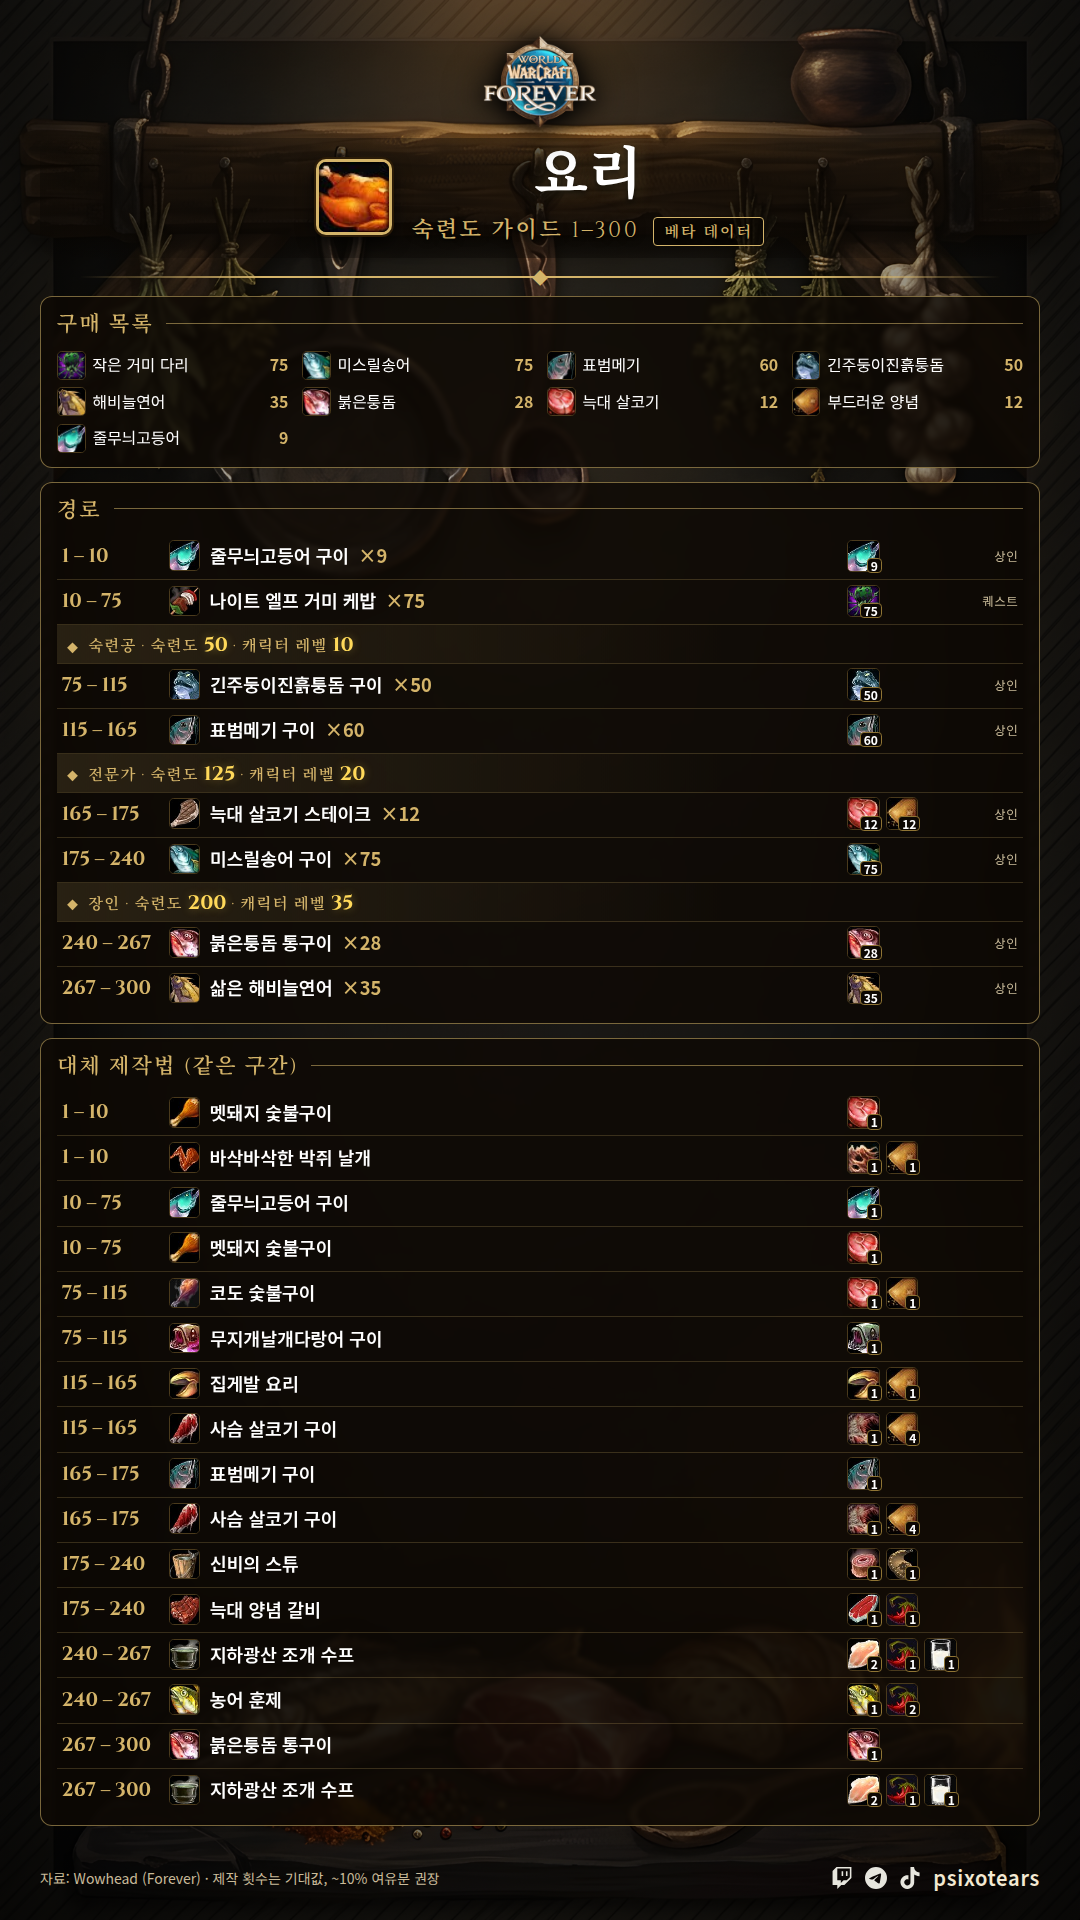
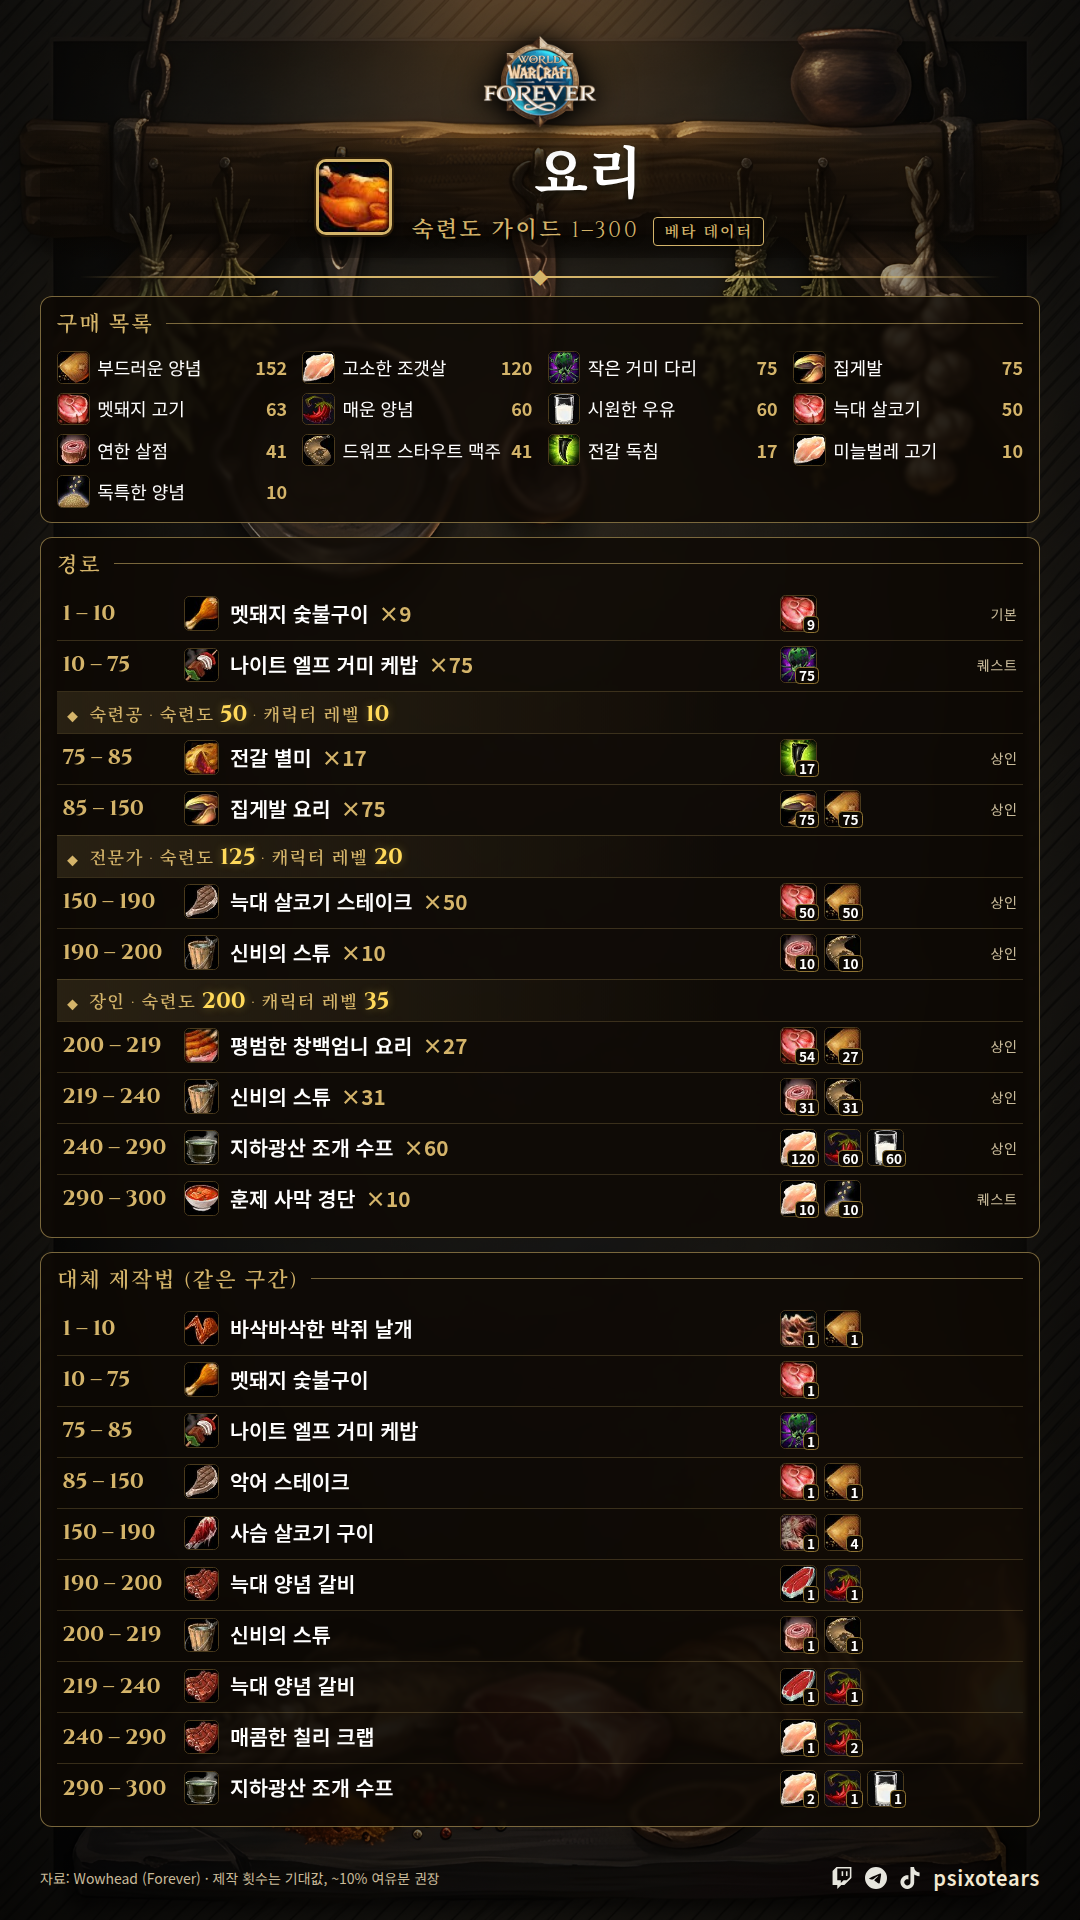
Cooking: meat-only route (no fish/holiday reagents); Fishing: Brilliant Smallfish zones for the Fish Bowl
Claude-Session: https://claude.ai/code/session_012e8LnHD2AptEEnhumMxWH2

diff --git a/wow-cards/pipeline/render.py b/wow-cards/pipeline/render.py
@@ -9,7 +9,7 @@ UI = {
            'ranknames': ['Journeyman', 'Expert', 'Artisan'], 'charlvl': 'character level', 'skilllbl': 'skill',
            'alts': 'Alternatives (same skill range)', 'nodes': 'Nodes by skill', 'skill': 'Skill', 'where': 'Where to find', 'moblvl': 'Mob level', 'zones': 'Zones',
            'ooze': 'also ooze-covered', 'skinnote': 'Required skill: (mob level − 10) × 10 up to level 20, then mob level × 5', 'gguide': 'Gathering Guide 1–300',
-           'nogetaway': 'No get-aways from', 'fishnote': 'Zone thresholds from WoW Classic — to be verified in the Forever beta', 'fguide': 'Fishing Guide 1–300',
+           'smallfish': 'For the Fish Bowl camp object — best catch rates', 'nogetaway': 'No get-aways from', 'fishnote': 'Zone thresholds from WoW Classic — to be verified in the Forever beta', 'fguide': 'Fishing Guide 1–300',
            'beta': 'BETA DATA', 'src': 'Data: Wowhead (Forever) · Craft counts are expected values, buy ~10% extra',
            'ranks': 'Journeyman 50 · Expert 125 · Artisan 200', 'title': 'World of Warcraft: Forever'},
     'ru': {'guide': 'Гайд по прокачке 1–300', 'shopping': 'Список покупок', 'steps': 'Маршрут', 'trainer': 'Учитель', 'vendor': 'Торговец',
@@ -17,7 +17,7 @@ UI = {
            'ranknames': ['Подмастерье', 'Умелец', 'Искусник'], 'charlvl': 'уровень персонажа', 'skilllbl': 'навык',
            'alts': 'Альтернативы (тот же диапазон)', 'nodes': 'Узлы по навыку', 'skill': 'Навык', 'where': 'Где искать', 'moblvl': 'Уровень мобов', 'zones': 'Зоны',
            'ooze': 'есть и покрытые слизью', 'skinnote': 'Нужный навык: (уровень моба − 10) × 10 до 20 ур., дальше уровень моба × 5', 'gguide': 'Гайд по добыче 1–300',
-           'nogetaway': 'Без срывов от', 'fishnote': 'Пороги зон взяты из WoW Classic — требуют проверки в бете Forever', 'fguide': 'Гайд по рыбалке 1–300',
+           'smallfish': 'Для Аквариума (объект лагеря) — где ловится чаще всего', 'nogetaway': 'Без срывов от', 'fishnote': 'Пороги зон взяты из WoW Classic — требуют проверки в бете Forever', 'fguide': 'Гайд по рыбалке 1–300',
            'beta': 'ДАННЫЕ БЕТЫ', 'src': 'Данные: Wowhead (Forever) · Кол-во крафтов ожидаемое, берите ~10% запас',
            'ranks': 'Подмастерье 50 · Умелец 125 · Искусник 200', 'title': 'World of Warcraft: Forever'},
     'cn': {'guide': '专业升级指南 1–300', 'shopping': '材料清单', 'steps': '路线', 'trainer': '训练师', 'vendor': '商人',
@@ -25,7 +25,7 @@ UI = {
            'ranknames': ['中级', '高级', '专家'], 'charlvl': '角色等级', 'skilllbl': '技能',
            'alts': '替代配方（同一区间）', 'nodes': '按技能等级的采集点', 'skill': '技能', 'where': '采集地点', 'moblvl': '怪物等级', 'zones': '区域',
            'ooze': '含软泥覆盖变体', 'skinnote': '所需技能：20级前为(怪物等级−10)×10，之后为怪物等级×5', 'gguide': '采集指南 1–300',
-           'nogetaway': '不脱钩起始', 'fishnote': '区域门槛取自 WoW Classic，待 Forever 测试服验证', 'fguide': '钓鱼指南 1–300',
+           'smallfish': '用于营地物品“鱼缸”——最佳钓取地点', 'nogetaway': '不脱钩起始', 'fishnote': '区域门槛取自 WoW Classic，待 Forever 测试服验证', 'fguide': '钓鱼指南 1–300',
            'beta': '测试服数据', 'src': '数据：Wowhead (Forever) · 制作次数为期望值，建议多备约10%',
            'ranks': '中级 50 · 高级 125 · 专家 200', 'title': '魔兽世界：无限'},
     'de': {'guide': 'Skillguide 1–300', 'shopping': 'Einkaufsliste', 'steps': 'Route', 'trainer': 'Lehrer', 'vendor': 'Händler',
@@ -33,7 +33,7 @@ UI = {
            'ranknames': ['Geselle', 'Experte', 'Fachmann'], 'charlvl': 'Charakterstufe', 'skilllbl': 'Fertigkeit',
            'alts': 'Alternativen (gleicher Bereich)', 'nodes': 'Vorkommen nach Fertigkeit', 'skill': 'Fertigkeit', 'where': 'Fundorte', 'moblvl': 'Mobstufe', 'zones': 'Zonen',
            'ooze': 'auch schleimbedeckt', 'skinnote': 'Benötigte Fertigkeit: (Mobstufe − 10) × 10 bis Stufe 20, danach Mobstufe × 5', 'gguide': 'Sammelguide 1–300',
-           'nogetaway': 'Kein Entkommen ab', 'fishnote': 'Zonenwerte aus WoW Classic – in der Forever-Beta zu prüfen', 'fguide': 'Angelguide 1–300',
+           'smallfish': 'Für das Lagerobjekt Aquarium – beste Fangorte', 'nogetaway': 'Kein Entkommen ab', 'fishnote': 'Zonenwerte aus WoW Classic – in der Forever-Beta zu prüfen', 'fguide': 'Angelguide 1–300',
            'beta': 'BETA-DATEN', 'src': 'Daten: Wowhead (Forever) · Anzahl = Erwartungswert, ~10 % Reserve einplanen',
            'ranks': 'Geselle 50 · Experte 125 · Fachmann 200', 'title': 'World of Warcraft: Forever'},
     'fr': {'guide': 'Guide de montée 1–300', 'shopping': "Liste d'achats", 'steps': 'Itinéraire', 'trainer': 'Maître', 'vendor': 'Vendeur',
@@ -41,7 +41,7 @@ UI = {
            'ranknames': ['Compagnon', 'Expert', 'Artisan'], 'charlvl': 'niveau du personnage', 'skilllbl': 'compétence',
            'alts': 'Alternatives (même plage)', 'nodes': 'Gisements par compétence', 'skill': 'Compétence', 'where': 'Où trouver', 'moblvl': 'Niveau des monstres', 'zones': 'Zones',
            'ooze': 'aussi couverts de vase', 'skinnote': 'Compétence requise : (niveau du monstre − 10) × 10 jusqu\'au niveau 20, puis niveau × 5', 'gguide': 'Guide de récolte 1–300',
-           'nogetaway': 'Sans fuite dès', 'fishnote': 'Seuils de zones issus de WoW Classic – à vérifier sur la bêta Forever', 'fguide': 'Guide de pêche 1–300',
+           'smallfish': "Pour l'objet de camp Aquarium – meilleurs taux de pêche", 'nogetaway': 'Sans fuite dès', 'fishnote': 'Seuils de zones issus de WoW Classic – à vérifier sur la bêta Forever', 'fguide': 'Guide de pêche 1–300',
            'beta': 'DONNÉES BÊTA', 'src': 'Données : Wowhead (Forever) · Nombres = valeurs attendues, prévoyez ~10 % de marge',
            'ranks': 'Compagnon 50 · Expert 125 · Artisan 200', 'title': 'World of Warcraft: Forever'},
     'es': {'guide': 'Guía de subida 1–300', 'shopping': 'Lista de compra', 'steps': 'Ruta', 'trainer': 'Instructor', 'vendor': 'Vendedor',
@@ -49,7 +49,7 @@ UI = {
            'ranknames': ['Oficial', 'Experto', 'Artesano'], 'charlvl': 'nivel del personaje', 'skilllbl': 'habilidad',
            'alts': 'Alternativas (mismo rango)', 'nodes': 'Vetas por habilidad', 'skill': 'Habilidad', 'where': 'Dónde encontrar', 'moblvl': 'Nivel de monstruos', 'zones': 'Zonas',
            'ooze': 'también cubiertas de moco', 'skinnote': 'Habilidad necesaria: (nivel del monstruo − 10) × 10 hasta nivel 20, luego nivel × 5', 'gguide': 'Guía de recolección 1–300',
-           'nogetaway': 'Sin escapes desde', 'fishnote': 'Umbrales de zona de WoW Classic; pendientes de verificar en la beta de Forever', 'fguide': 'Guía de pesca 1–300',
+           'smallfish': 'Para el objeto de campamento Pecera: mejores lugares de pesca', 'nogetaway': 'Sin escapes desde', 'fishnote': 'Umbrales de zona de WoW Classic; pendientes de verificar en la beta de Forever', 'fguide': 'Guía de pesca 1–300',
            'beta': 'DATOS DE BETA', 'src': 'Datos: Wowhead (Forever) · Cantidades esperadas, compra ~10 % extra',
            'ranks': 'Oficial 50 · Experto 125 · Artesano 200', 'title': 'World of Warcraft: Forever'},
     'ko': {'guide': '숙련도 가이드 1–300', 'shopping': '구매 목록', 'steps': '경로', 'trainer': '훈련사', 'vendor': '상인',
@@ -57,7 +57,7 @@ UI = {
            'ranknames': ['숙련공', '전문가', '장인'], 'charlvl': '캐릭터 레벨', 'skilllbl': '숙련도',
            'alts': '대체 제작법 (같은 구간)', 'nodes': '숙련도별 채집물', 'skill': '숙련도', 'where': '위치', 'moblvl': '몬스터 레벨', 'zones': '지역',
            'ooze': '진흙 덮인 변형 포함', 'skinnote': '필요 숙련도: 20레벨까지 (몬스터 레벨 − 10) × 10, 이후 몬스터 레벨 × 5', 'gguide': '채집 가이드 1–300',
-           'nogetaway': '놓침 없음', 'fishnote': '지역 기준은 WoW 클래식 자료 – Forever 베타에서 확인 필요', 'fguide': '낚시 가이드 1–300',
+           'smallfish': '야영지 물건 어항 제작용 – 가장 잘 잡히는 지역', 'nogetaway': '놓침 없음', 'fishnote': '지역 기준은 WoW 클래식 자료 – Forever 베타에서 확인 필요', 'fguide': '낚시 가이드 1–300',
            'beta': '베타 데이터', 'src': '자료: Wowhead (Forever) · 제작 횟수는 기대값, ~10% 여유분 권장',
            'ranks': '숙련공 50 · 전문가 125 · 장인 200', 'title': 'World of Warcraft: Forever'},
 }
@@ -202,12 +202,17 @@ td.gn{width:calc(300px * var(--s))}
 .gn .chips{display:flex;flex-direction:column;gap:calc(3px * var(--s))}
 .gn img{width:calc(34px * var(--s));height:calc(34px * var(--s));border-radius:5px;border:1.5px solid #4a3a1c;flex:none}
 .gn .nm{font-size:calc(19px * var(--s));font-weight:600;line-height:1.05}
+.gn .sk{display:inline-block;margin-left:6px;padding:0 6px;border:1px solid var(--gold2);border-radius:4px;font-family:HEADFONT;font-size:calc(14px * var(--s));color:#ffd95a;vertical-align:middle;line-height:1.3}
 .gn .oz{font-size:calc(12px * var(--s));color:var(--dim);display:block;margin-top:2px}
 td.gz{font-size:calc(16px * var(--s));line-height:1.25;color:var(--ink)}
 .gz span{white-space:normal}
 .gz small{color:var(--dim);font-size:calc(12.5px * var(--s))}
 td.gm{font-size:calc(17px * var(--s));color:var(--ink);width:calc(120px * var(--s));white-space:nowrap}
 .note{font-size:calc(14px * var(--s));color:var(--dim);margin-top:8px}
+.sfish{display:flex;gap:calc(12px * var(--s));align-items:flex-start;margin-top:calc(14px * var(--s));padding-top:calc(12px * var(--s));border-top:1px solid rgba(212,180,106,.22);font-size:calc(16px * var(--s));color:var(--ink)}
+.sfish img{width:calc(44px * var(--s));height:calc(44px * var(--s));border-radius:6px;border:1.5px solid #4a3a1c;flex:none}
+.sfish b{color:#fff}
+.sfish .gz{font-size:calc(15px * var(--s))}
 """
 
 
@@ -228,7 +233,7 @@ def build_gather(prof, lang, bg='../../bg/placeholder.png', logo=None, s=1.0):
     if d['kind'] == 'bands':
         for r in d['rows']:
             sk = str(r['skill']) if r['skill'] == r['skill_hi'] else f'{r["skill"]}–{r["skill_hi"]}'
-            chips = ''.join(f'<div class="w"><img src="../../icons/{n["icon"]}.jpg"><div><span class="nm">{esc(n["name"].get(lang) or n["name"]["en"])}</span>{("<span class=oz>" + esc(ui["ooze"]) + "</span>") if n.get("ooze") else ""}</div></div>' for n in r['nodes'])
+            chips = ''.join(f'<div class="w"><img src="../../icons/{n["icon"]}.jpg"><div><span class="nm">{esc(n["name"].get(lang) or n["name"]["en"])} <span class="sk">{n["skill"]}</span></span>{("<span class=oz>" + esc(ui["ooze"]) + "</span>") if n.get("ooze") else ""}</div></div>' for n in r['nodes'])
             rows.append(f'<tr><td class="gs">{sk}</td><td class="gn"><div class="chips">{chips}</div></td><td class="gz">{zones_html(r["zones"])}</td></tr>')
         head = f'<tr><td class="src" style="text-align:left">{esc(ui["skill"])}</td><td class="src" style="text-align:left"></td><td class="src" style="text-align:left">{esc(ui["where"])}</td></tr>'
         note = ''
@@ -238,6 +243,10 @@ def build_gather(prof, lang, bg='../../bg/placeholder.png', logo=None, s=1.0):
             rows.append(f'<tr><td class="gs">{r["skill"]}+</td><td class="gm">{r["nogetaway"]}+</td><td class="gz">{zones_html(r["zones"])}</td></tr>')
         head = f'<tr><td class="src" style="text-align:left">{esc(ui["skill"])}</td><td class="src" style="text-align:left">{esc(ui["nogetaway"])}</td><td class="src" style="text-align:left">{esc(ui["zones"])}</td></tr>'
         note = f'<div class="note">{esc(ui["fishnote"])}</div>'
+        sf = d.get('smallfish')
+        if sf:
+            zs = ' · '.join(f'<span>{esc(z["name"].get(lang) or z["name"]["en"])} <small>{z["pct"]}%</small></span>' for z in sf['zones'])
+            note += f'<div class="sfish"><img src="../../icons/{sf["icon"]}.jpg"><div><b>{esc(sf["name"].get(lang) or sf["name"]["en"])}</b> — {esc(ui["smallfish"])}<div class="gz" style="margin-top:4px">{zs}</div></div></div>'
     else:
         for r in d['rows']:
             sk = str(r['skill']) if r.get('skill_hi', r['skill']) == r['skill'] else f'{r["skill"]}–{r["skill_hi"]}'

diff --git a/wow-cards/pipeline/route.py b/wow-cards/pipeline/route.py
@@ -16,10 +16,13 @@ ONCE = re.compile(r"Runed .* Rod|Camp Tent|Tanning Rack|Sewing Machine|Anvil|For
 LANGS = ('en', 'ru', 'cn', 'de', 'fr', 'es', 'ko')
 OTHER_PROF_PRODUCTS = {}
 # manual fixes from guides/beta reports (spell id -> source, learnedat)
-OVERRIDE_SRC = {7418: 'auto', 18629: 'quest', 14530: 'quest', 10841: 'quest', 22813: 'quest', 9980: 'quest', 7421: 'auto'}
+OVERRIDE_SRC = {7418: 'auto', 18629: 'quest', 14530: 'quest', 10841: 'quest', 22813: 'quest', 9980: 'quest', 7421: 'auto', 24801: 'quest'}
 OVERRIDE_LEARN = {7418: 1}
 EXCLUDE_IDS = {22813, 461692, 1230643}
-EXCLUDE_REAGENTS = {18240, 14342}      # Ogre Tannin (dungeon-bound), Mooncloth (cooldown product)          # Gordok Ogre Suit (dungeon-bound tannin), Enchanted Lute (quest item)
+EXCLUDE_REAGENTS = {18240, 14342}      # Ogre Tannin (dungeon-bound), Mooncloth (cooldown product)
+# cooking: no fish (needs Fishing or AH) and no holiday reagents
+FISH_RE = re.compile(r"^Raw |Lobster|Squid|Bass$|Salmon|Snapper|Mightfish|Yellowtail|Redgill|Cod$|Trout|Catfish|Mackerel|Smallfish|Sagefish|Deviate Fish|Frenzy|Albacore|Halibut|Armorfish|Whimsyfin|Holiday", re.I)
+PROF_EXCLUDE_REAGENT_RE = {'cooking': FISH_RE}          # Gordok Ogre Suit (dungeon-bound tannin), Enchanted Lute (quest item)
 COOLDOWN = set(json.load(open('data/cooldown_ids.json'))) if os.path.exists('data/cooldown_ids.json') else set()
 SEASONAL = re.compile(r"Rocket Cluster|Cluster Launcher|Rocket Launcher|Snowball|Lovely|Winter Veil|Winter Clothes|Festive|Lunar|Brewfest|Hallow", re.I)
 import os
@@ -88,8 +91,9 @@ def normalize_colors(r):
     r['colors'] = [o, y, g, gr]
 
 
-def eligible(recipes, max_skill=300):
+def eligible(recipes, max_skill=300, prof=None):
     out = []
+    bad_re = PROF_EXCLUDE_REAGENT_RE.get(prof)
     for r in recipes:
         if r.get('colors'):
             normalize_colors(r)
@@ -100,6 +104,8 @@ def eligible(recipes, max_skill=300):
         if r['id'] in OVERRIDE_SRC and OVERRIDE_SRC[r['id']] in ('quest',) and not r.get('source'):
             r['source'] = [QUEST]
         if SEASONAL.search(r['name']) or r['id'] in EXCLUDE_IDS or r['id'] in COOLDOWN or any(i in EXCLUDE_REAGENTS for i, _ in r['reagents']):
+            continue
+        if bad_re and any(bad_re.search(ITEMS.get(i, {}).get('name_en', '')) for i, _ in r['reagents']):
             continue
         if not r.get('source') and r['id'] > 100000 and r['id'] not in OVERRIDE_SRC:
             continue                  # new Forever recipe with no known source: unverifiable, skip
@@ -204,7 +210,7 @@ def tally(steps):
 
 def compute(prof, max_skill=300):
     d = json.load(open(f'data/{prof}_en.json'))
-    recipes = eligible(d['recipes'], max_skill)
+    recipes = eligible(d['recipes'], max_skill, prof)
     price = defaultdict(lambda: 20000)
     for i in {i for r in recipes for i, _ in r['reagents']} | {r['creates'][0] for r in recipes if r.get('creates')}:
         price[i] = base_price(i)
@@ -287,7 +293,7 @@ def compute(prof, max_skill=300):
 
 def alternatives(prof, steps, max_skill=300, n=2):
     d = json.load(open(f'data/{prof}_en.json'))
-    recipes = eligible(d['recipes'], max_skill)
+    recipes = eligible(d['recipes'], max_skill, prof)
     price = defaultdict(lambda: 20000)
     for i in {i for r in recipes for i, _ in r['reagents']}:
         price[i] = base_price(i)

diff --git a/wow-cards/pipeline/gather.py b/wow-cards/pipeline/gather.py
@@ -126,6 +126,16 @@ if __name__ == '__main__':
         'herbalism': {'kind': 'bands', 'rows': band(build_nodes('herbalism', 'herbs', 'inv_misc_herb_01'))},
         'skinning': {'kind': 'skinning', 'rows': skinning_rows()},
     }
+    # fishing extra: Raw Brilliant Smallfish (Fish Bowl camp object) — best zones by catch rate
+    import os
+    if os.path.exists('data/smallfish_zones.json') and os.path.exists('data/gather_fishing.json'):
+        sf = json.load(open('data/smallfish_zones.json'))
+        fz = json.load(open('data/gather_fishing.json', encoding='utf-8'))
+        fz['smallfish'] = {'item': 6291, 'icon': ITEMS.get(6291, {}).get('icon', 'inv_misc_fish_24'),
+                           'name': {l: ITEMS.get(6291, {}).get('name_' + l, 'Raw Brilliant Smallfish') for l in LANGS},
+                           'zones': [{'id': z['zone_id'], 'pct': z['pct'], 'name': {l: ZONE[z['zone_id']].get('name_' + l, ZONE[z['zone_id']].get('name_en')) for l in LANGS}} for z in sf if z['zone_id'] in ZONE][:6]}
+        json.dump(fz, open('data/gather_fishing.json', 'w', encoding='utf-8'), ensure_ascii=False, indent=1)
+        out['fishing'] = fz
     for prof, d in out.items():
         json.dump({'profession': prof, **d}, open(f'data/gather_{prof}.json', 'w', encoding='utf-8'), ensure_ascii=False, indent=1)
         print(f'== {prof}: {len(d["rows"])} rows')
